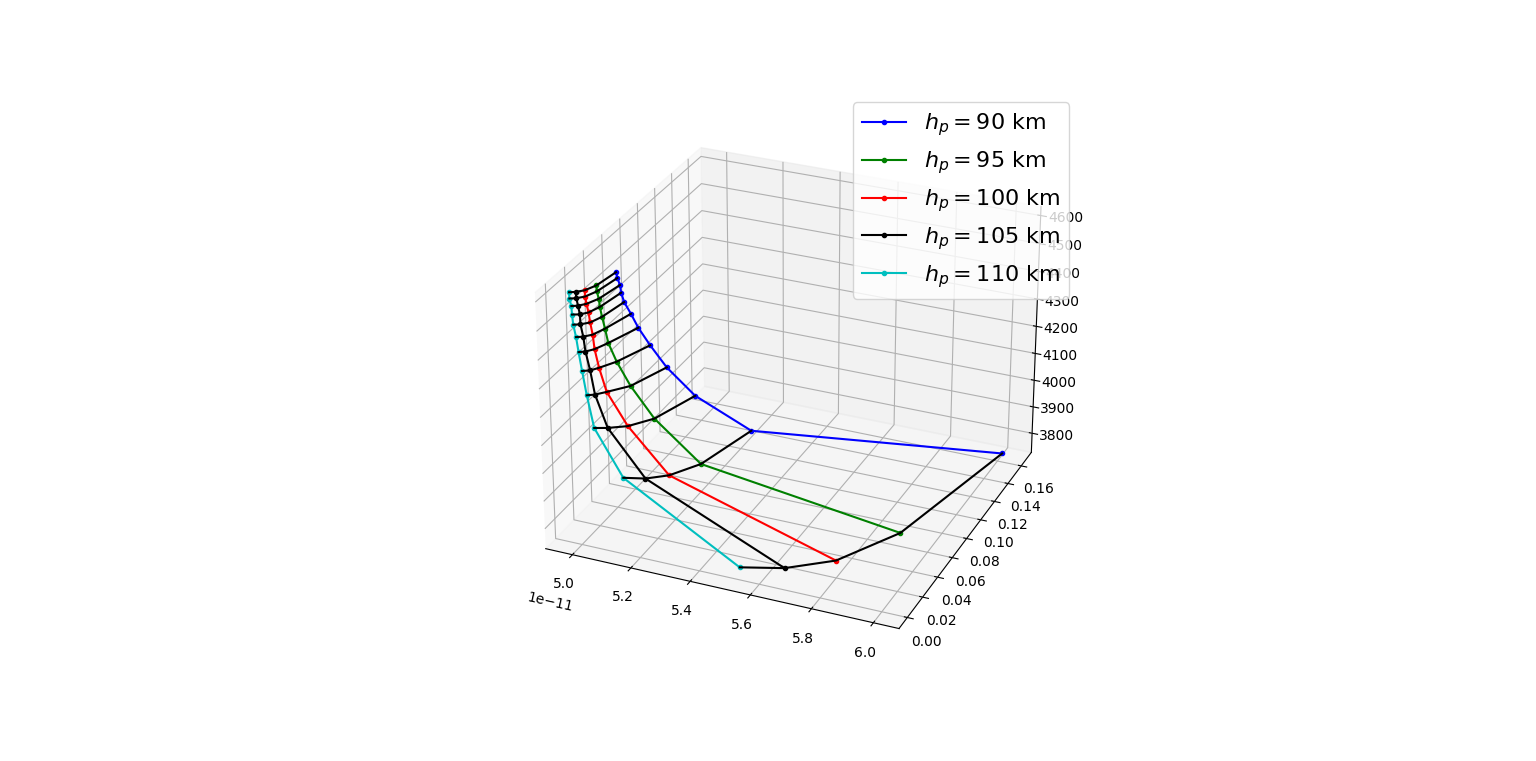
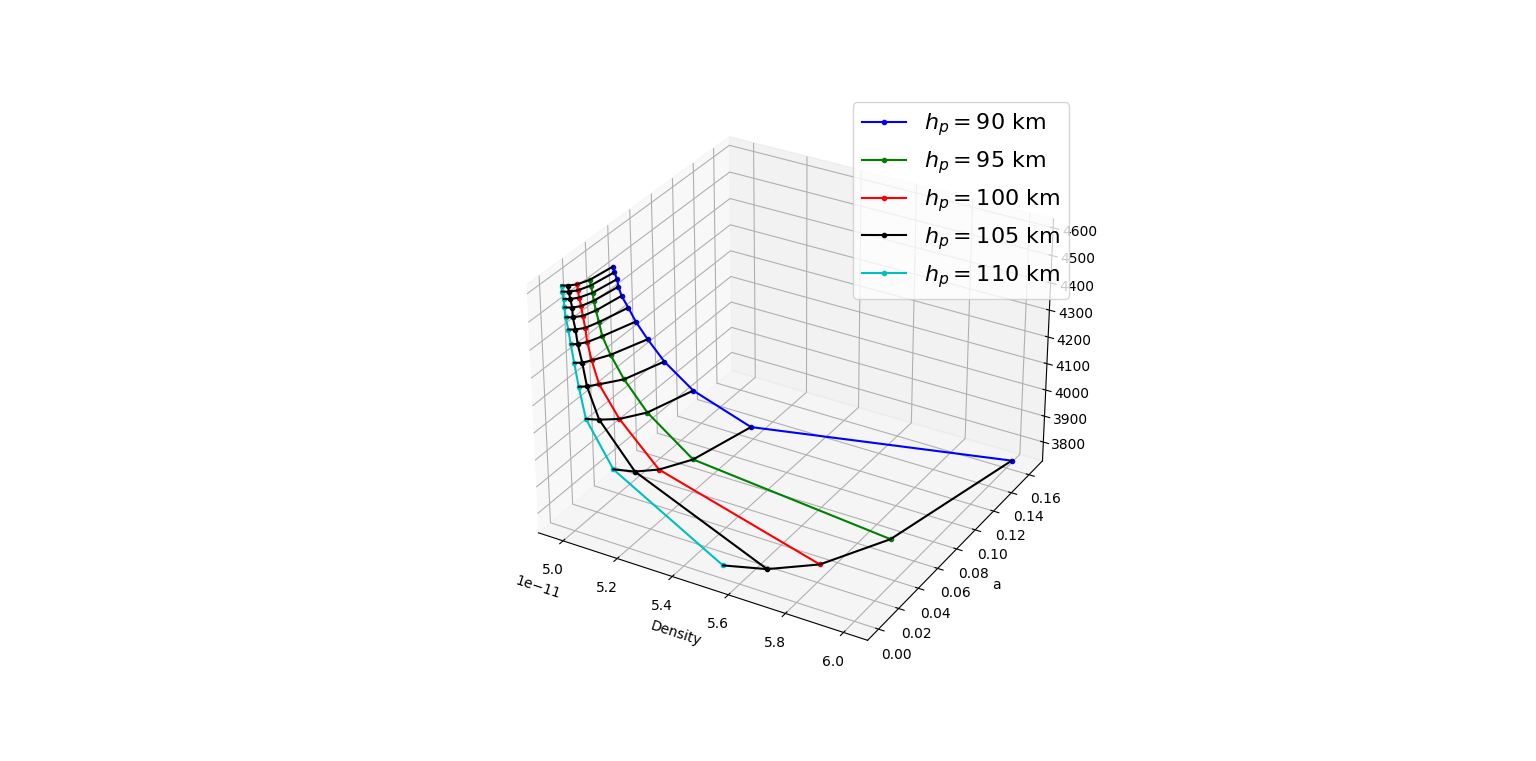
3dplot

Changed region(s): [[0.3438, 0.1813, 0.7188, 0.8765]]

diff --git a/data_corelation.py b/data_corelation.py
@@ -130,6 +130,9 @@ for i in range(12):
 
 # ax.set_ylabel("$a$",size='x-large')
 # ax.set_xlabel("$D_{max}$ (N)",size='x-large')
+plt.xlabel("Density")
+plt.ylabel("a")
+# plt.bar_label("$v_0$")
 plt.legend(fontsize=16)
 plt.grid()
 plt.show()
